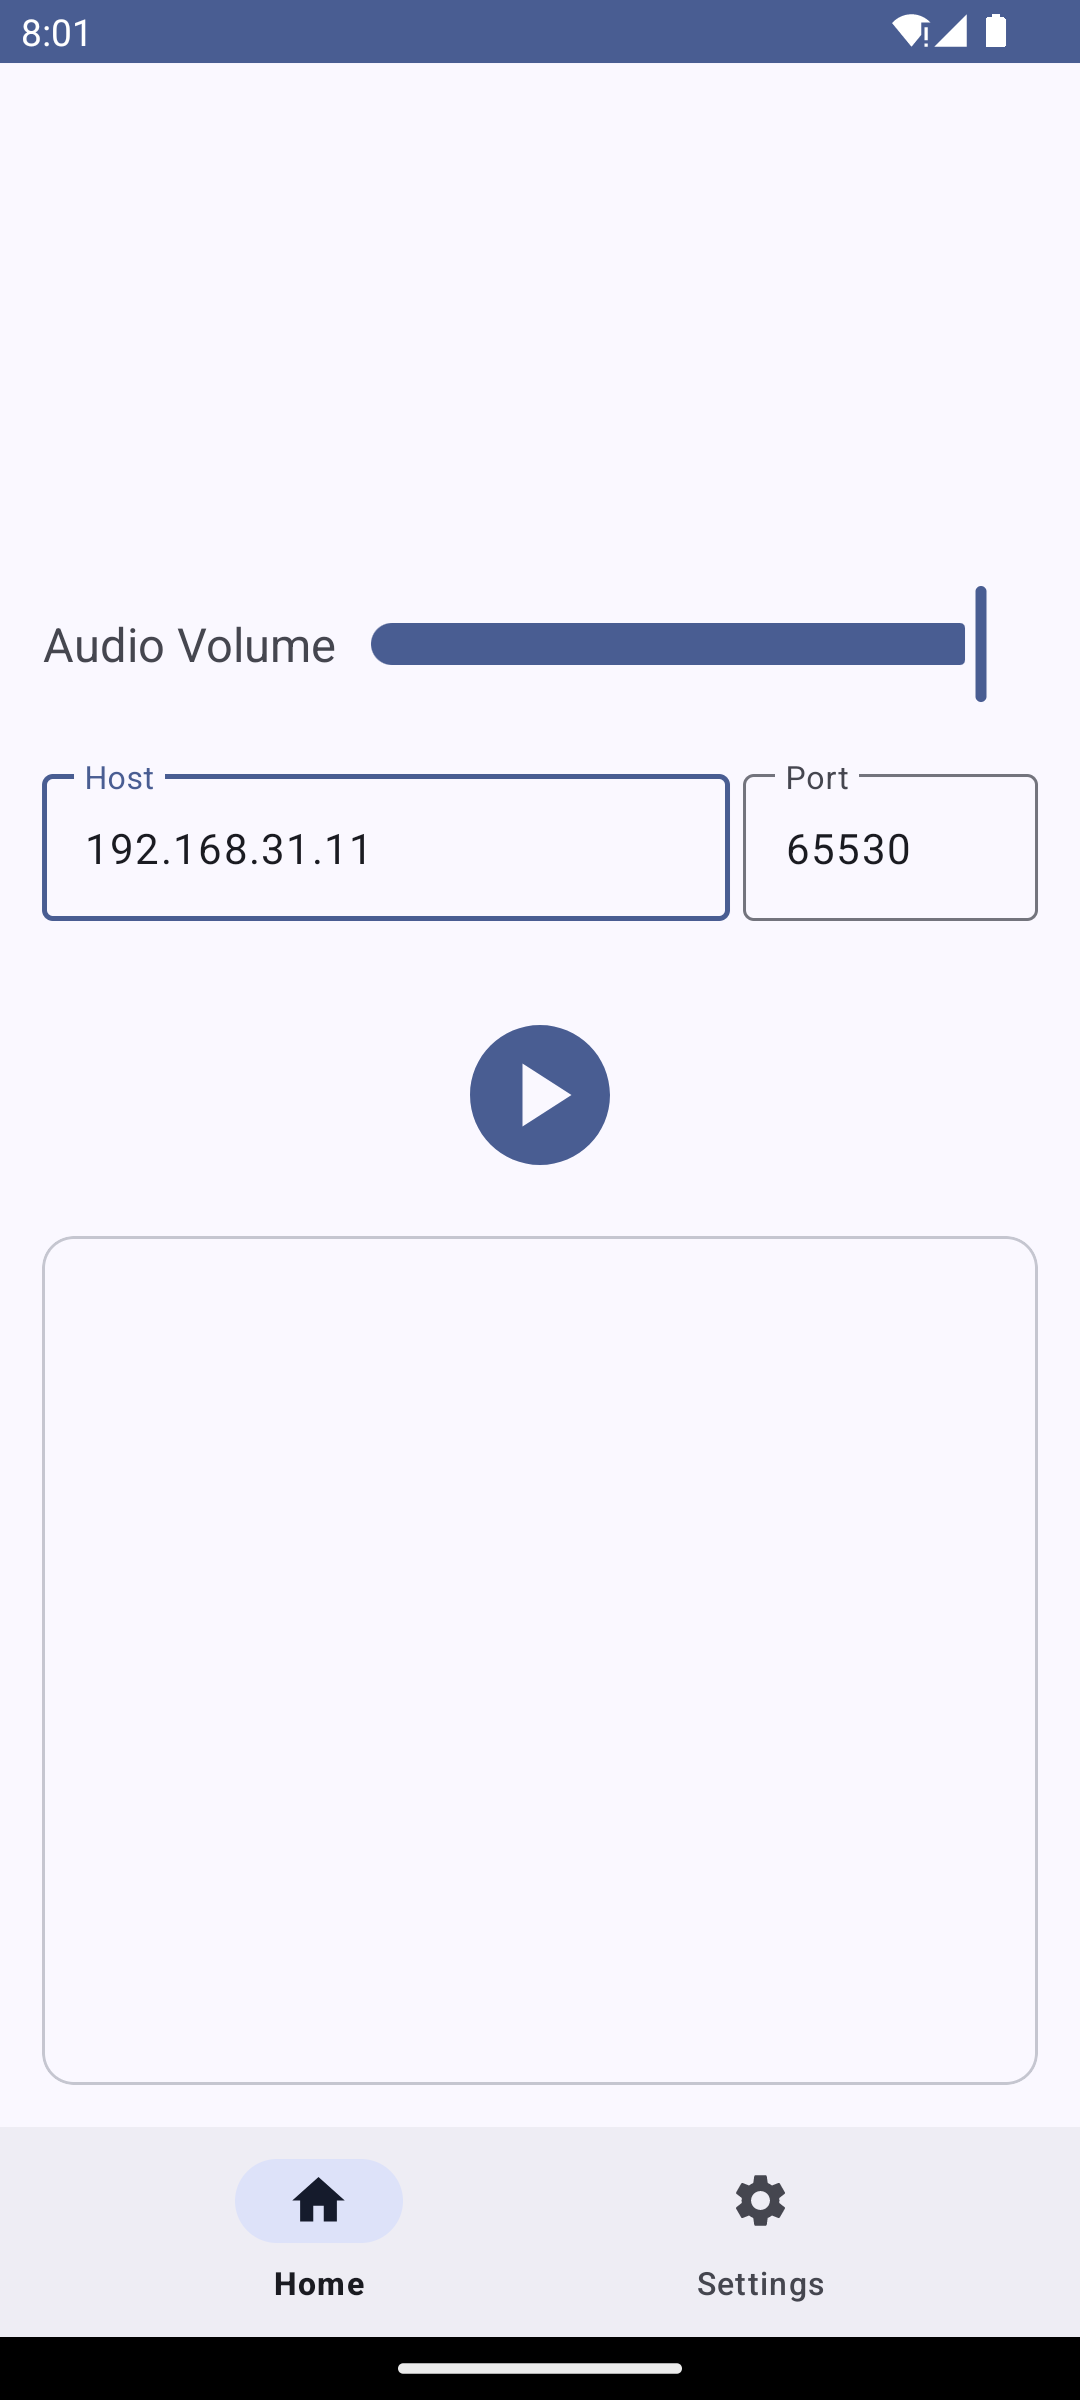
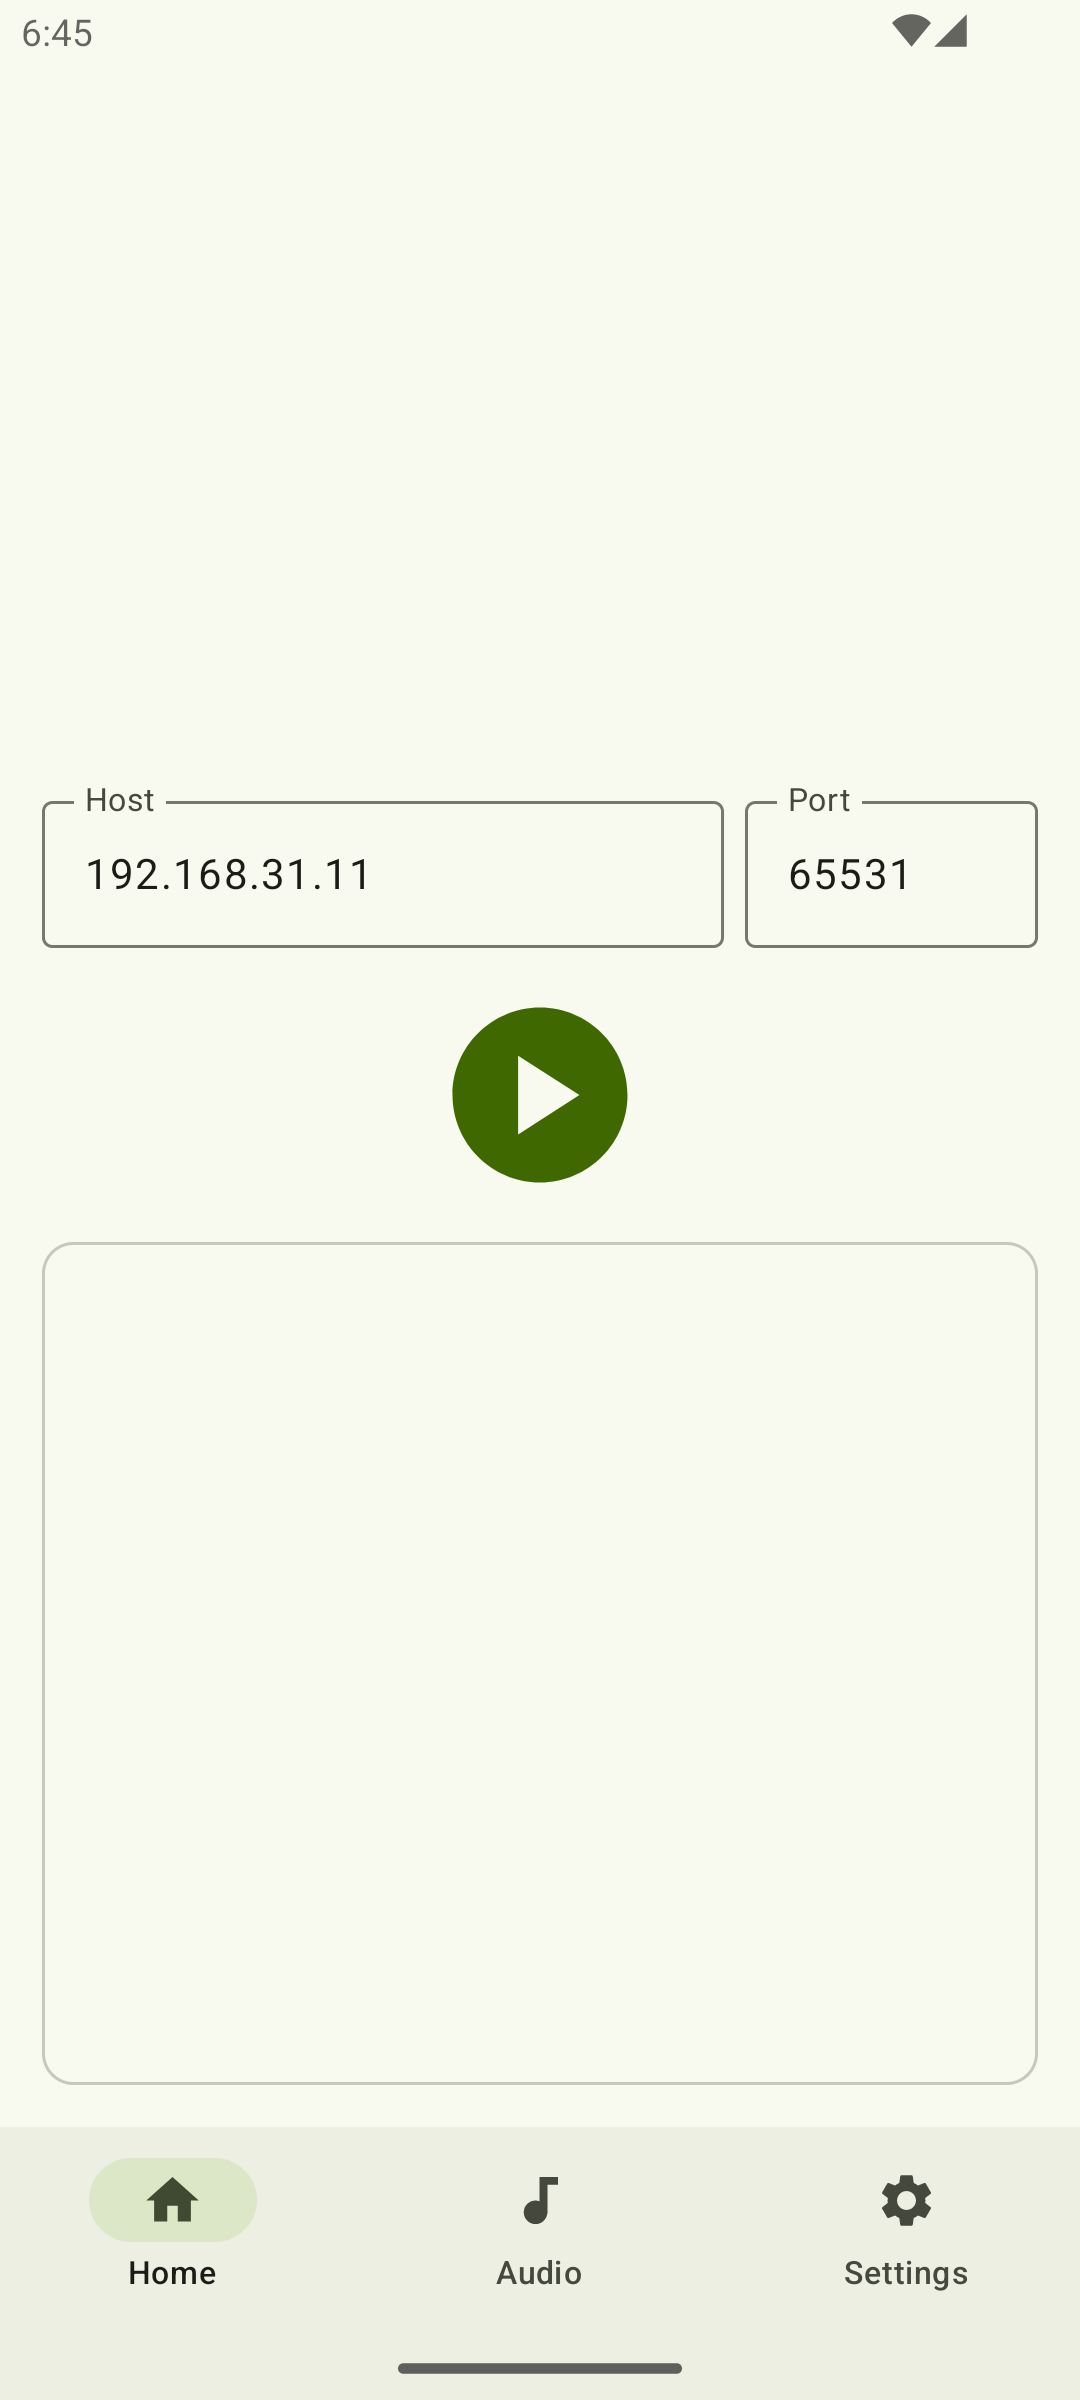
v0.3.0 changelog

diff --git a/README.md b/README.md
@@ -41,7 +41,10 @@ Audio Share can share Windows/Linux computer's audio to Android phone over netwo
 <img src="docs/img/win_02.png" width="45%" alt="docs/img/win_02.png">
 
 <img src="metadata/en-US/images/phoneScreenshots/1.png" width="30%" alt="metadata/en-US/images/phoneScreenshots/1.png">&nbsp;
-<img src="metadata/en-US/images/phoneScreenshots/2.png" width="30%" alt="metadata/en-US/images/phoneScreenshots/2.png">
+<img src="metadata/en-US/images/phoneScreenshots/2.png" width="30%" alt="metadata/en-US/images/phoneScreenshots/2.png">&nbsp;
+<img src="metadata/en-US/images/phoneScreenshots/3.png" width="30%" alt="metadata/en-US/images/phoneScreenshots/3.png"><br/>
+<img src="metadata/en-US/images/phoneScreenshots/4.png" width="30%" alt="metadata/en-US/images/phoneScreenshots/4.png">&nbsp;
+<img src="metadata/en-US/images/phoneScreenshots/5.png" width="30%" alt="metadata/en-US/images/phoneScreenshots/5.png">
 
 
 ## Requirements
@@ -56,9 +59,6 @@ Audio Share can share Windows/Linux computer's audio to Android phone over netwo
 - Download APK file and AudioShareServer.exe from [latest release](https://github.com/mkckr0/audio-share/releases/latest).
 - Open the AudioShareServer.exe on your computer. The default arguments may work well. But you may still have to check the "Host" part. It's normally the LAN address, such as `192.168.xxx.xxx`. Make sure your phone can connect your computer over this IP address. Then Click "Start Server" button.
 - Install APK to your phone and open it. Modify the "Host" part to make sure it's same as the value of previous step, such as `192.168.xxx.xxx`. Click "▶" button and enjoy the audio🎶.
-
-> [!CAUTION]
-> This app doesn't support auto reconnecting feature at present. Once the app is killed  or disconnected by Android power saver, the audio playing will be stop. Adding app to the whitelist of power saver is recommended. To do this, you can press "Request Ignore Battery Optimizations" on app's Settings.
 
 
 ## Usage for Windows/Linux CMD
@@ -187,6 +187,14 @@ total: 1
 ```
 
 
+## Known Issues
+
+### The quick settings tile can't start playback directly
+
+[Restrictions on starting a foreground service from the background](https://developer.android.com/develop/background-work/services/foreground-services#bg-access-restrictions)  
+Turns off or ignore battery optimizations can let it work.
+
+
 ## Compile from source
 
 - Android App
@@ -229,19 +237,20 @@ This project is licensed under the [Apache-2.0 license](https://opensource.org/l
 
 [![FOSSA Status](https://app.fossa.com/api/projects/git%2Bgithub.com%2Fmkckr0%2Faudio-share.svg?type=large)](https://app.fossa.com/projects/git%2Bgithub.com%2Fmkckr0%2Faudio-share?ref=badge_large)
 
+
 ## Used Third-party Libraries
 
+- [Asio](https://github.com/chriskohlhoff/asio) licensed under the [BSL-1.0 license](http://www.boost.org/LICENSE_1_0.txt)
 - [nlohmann/json](https://github.com/nlohmann/json) licensed under the [MIT license](https://github.com/nlohmann/json/blob/develop/LICENSE.MIT)
 - [WIL](https://github.com/microsoft/wil) licensed under the [MIT license](https://github.com/microsoft/wil/blob/master/LICENSE)
-- [Asio](https://github.com/chriskohlhoff/asio) licensed under the [BSL-1.0 license](http://www.boost.org/LICENSE_1_0.txt).
-- [Protocol Buffers](https://github.com/protocolbuffers/protobuf) licensed under the [LICENSE](https://github.com/protocolbuffers/protobuf/blob/main/LICENSE).
-- [spdlog](https://github.com/gabime/spdlog) licensed under the [MIT license](https://github.com/gabime/spdlog/blob/v1.x/LICENSE).
-- [{fmt}](https://github.com/fmtlib/fmt) licensed under the [LICENSE](https://github.com/fmtlib/fmt/blob/master/LICENSE).
+- [Protocol Buffers](https://github.com/protocolbuffers/protobuf) licensed under the [LICENSE](https://github.com/protocolbuffers/protobuf/blob/main/LICENSE)
+- [spdlog](https://github.com/gabime/spdlog) licensed under the [MIT license](https://github.com/gabime/spdlog/blob/v1.x/LICENSE)
+- [{fmt}](https://github.com/fmtlib/fmt) licensed under the [LICENSE](https://github.com/fmtlib/fmt/blob/master/LICENSE)
 - [cxxopts](https://github.com/jarro2783/cxxopts) licensed under the [MIT license](https://github.com/jarro2783/cxxopts/blob/master/LICENSE)
-- [Netty](https://github.com/netty/netty) licensed under the [Apache-2.0 license](http://www.apache.org/licenses/LICENSE-2.0).
-- [Material Components for Android](https://github.com/material-components/material-components-android) licensed under the [Apache-2.0 license](http://www.apache.org/licenses/LICENSE-2.0).
-- [Protobuf Plugin for Gradle](https://github.com/google/protobuf-gradle-plugin) licensed under the [LICENSE](https://github.com/google/protobuf-gradle-plugin/blob/master/LICENSE).
-- [PipeWire](https://gitlab.freedesktop.org/pipewire/pipewire) licensed under the [LICENSE](https://gitlab.freedesktop.org/pipewire/pipewire/-/blob/master/LICENSE).
+- [PipeWire](https://gitlab.freedesktop.org/pipewire/pipewire) licensed under the [LICENSE](https://gitlab.freedesktop.org/pipewire/pipewire/-/blob/master/LICENSE)
+- [Ktor](https://github.com/ktorio/ktor) licensed under the [Apache-2.0 license](http://www.apache.org/licenses/LICENSE-2.0)
+- [MaterialKolor](https://github.com/jordond/MaterialKolor) licensed under the [MIT license](https://github.com/jordond/MaterialKolor/blob/main/LICENSE)
+
 
 ## Sponsors
 
